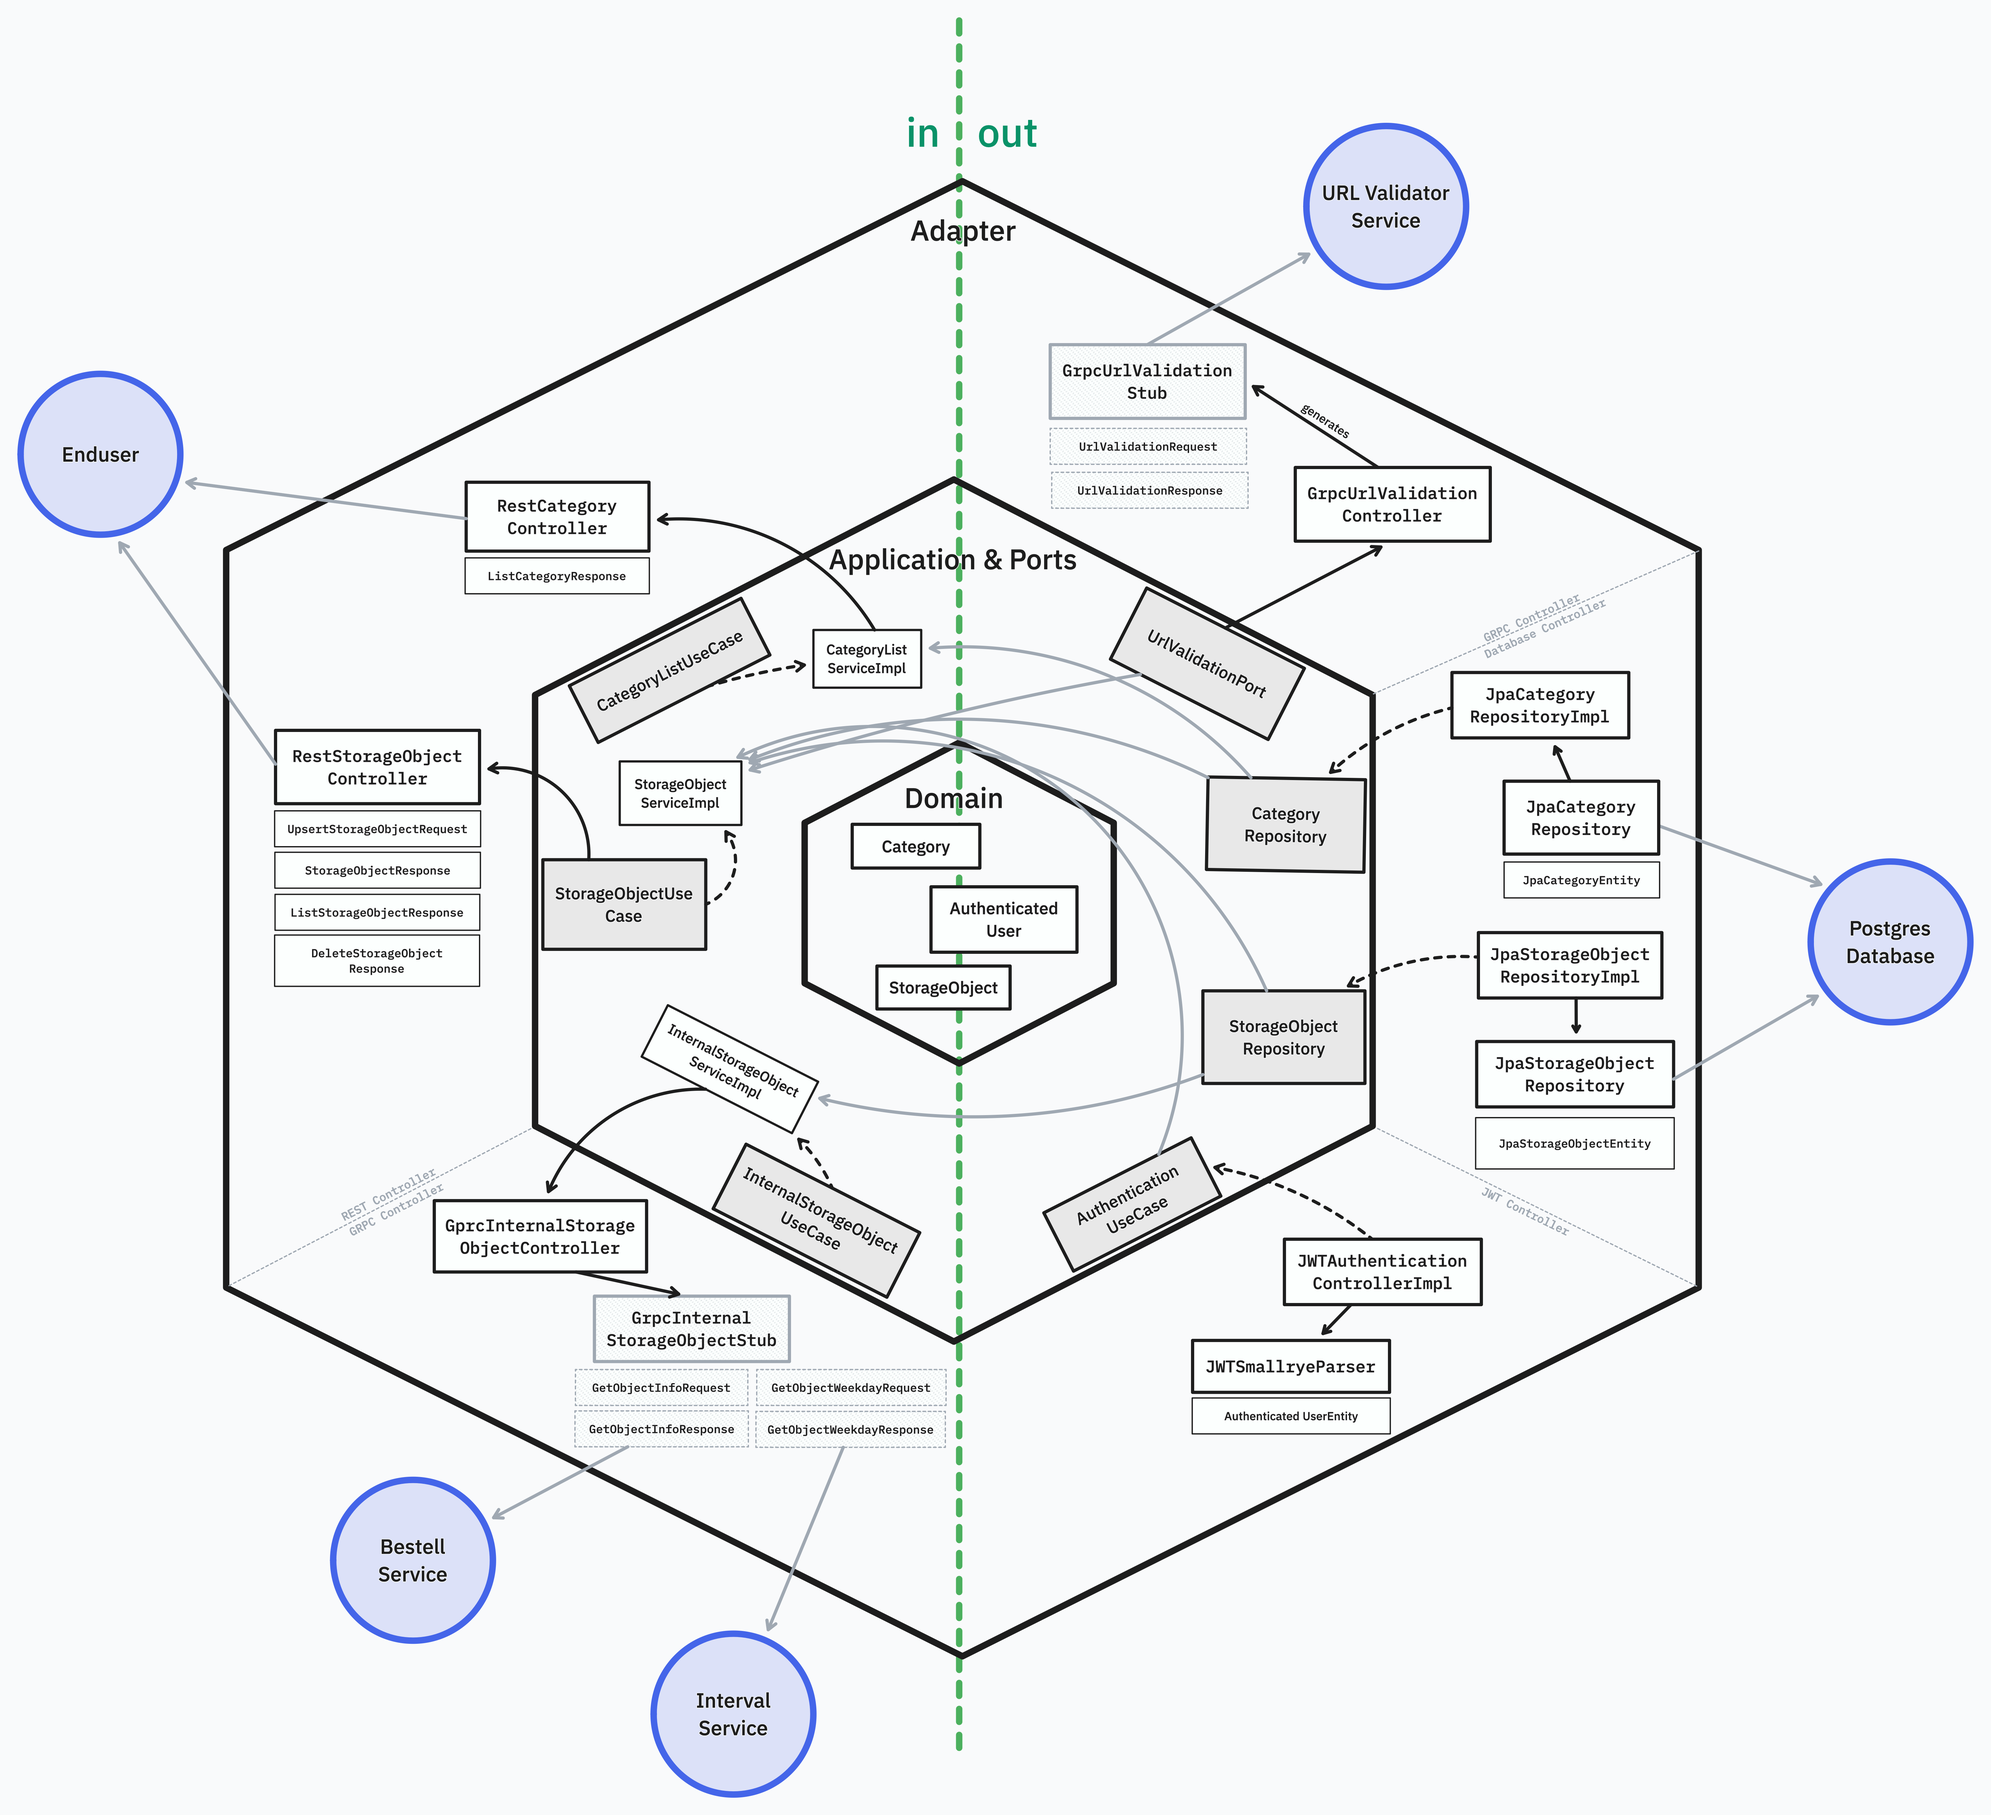
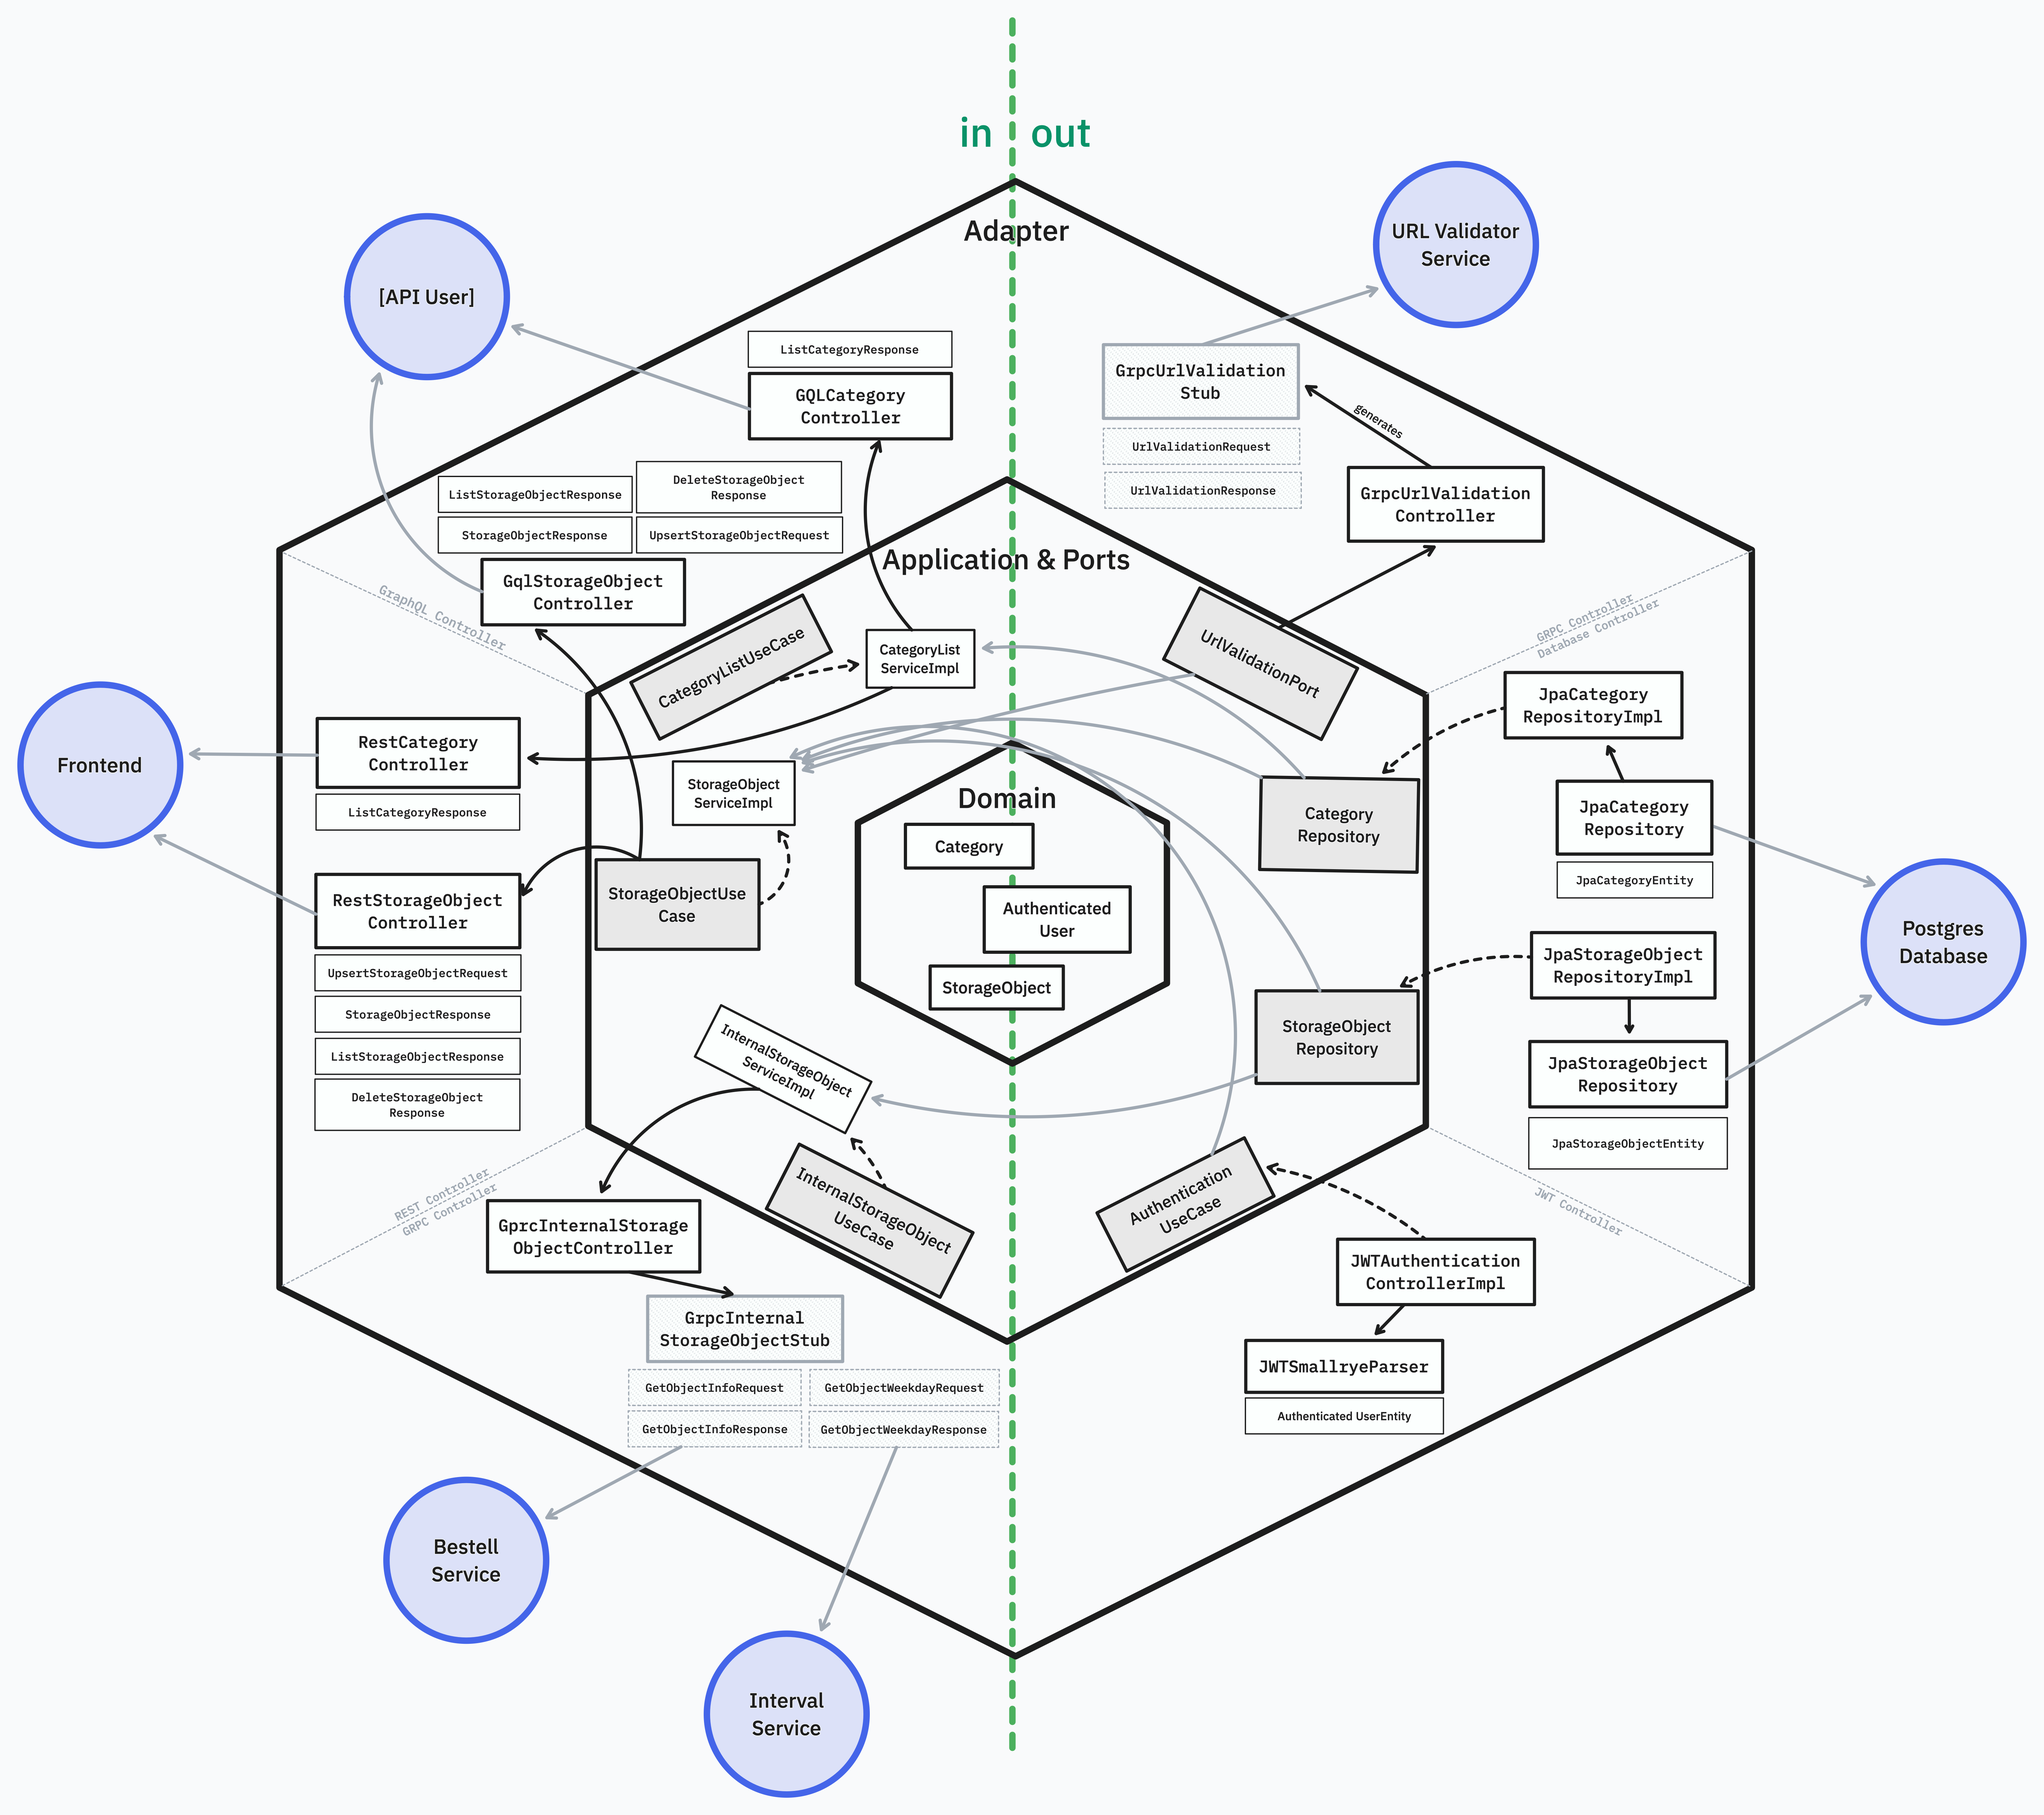
Refactor GraphQL controllers to return response DTOs for categories and storage objects

diff --git a/services/object-management/src/main/java/dev/eggl/adapter/in/user/graphql/GqlStorageObjectController.java b/services/object-management/src/main/java/dev/eggl/adapter/in/user/graphql/GqlStorageObjectController.java
@@ -1,6 +1,8 @@
 package dev.eggl.adapter.in.user.graphql;
 
 import dev.eggl.adapter.in.user.dto.storageObject.DeleteStorageObjectResponse;
+import dev.eggl.adapter.in.user.dto.storageObject.ListStorageObjectResponse;
+import dev.eggl.adapter.in.user.dto.storageObject.StorageObjectResponse;
 import dev.eggl.adapter.in.user.dto.storageObject.UpsertStorageObjectRequest;
 import dev.eggl.domain.model.StorageObject;
 import dev.eggl.port.in.StorageObjectUseCase;
@@ -21,7 +23,6 @@ public class GqlStorageObjectController {
     @Inject
     RoutingContext routingContext;
 
-
     public GqlStorageObjectController(StorageObjectUseCase storageObjectUseCase) {
         this.storageObjectUseCase = storageObjectUseCase;
     }
@@ -35,19 +36,18 @@ public class GqlStorageObjectController {
     }
 
     @Query("items")
-    public List<StorageObject> getAllStorageObjects() throws GraphQLException {
-
+    public ListStorageObjectResponse getAllStorageObjects() throws GraphQLException {
         String token = extractToken();
-
-        return storageObjectUseCase.findAll(token);
+        List<StorageObject> storageObjects = storageObjectUseCase.findAll(token);
+        return ListStorageObjectResponse.fromDomain(storageObjects);
     }
 
     @Mutation("createItem")
     @Transactional
-    public StorageObject createStorageObject(UpsertStorageObjectRequest input) throws GraphQLException {
+    public StorageObjectResponse createStorageObject(UpsertStorageObjectRequest input) throws GraphQLException {
         String token = extractToken();
         try {
-            return storageObjectUseCase.create(
+            StorageObject created = storageObjectUseCase.create(
                     input.name(),
                     input.description(),
                     input.categoryId(),
@@ -55,18 +55,18 @@ public class GqlStorageObjectController {
                     input.quantity(),
                     input.weekday(),
                     token);
+            return StorageObjectResponse.fromDomain(created);
         } catch (Exception e) {
             throw new GraphQLException(e.getMessage());
         }
-
     }
 
     @Mutation("updateItem")
     @Transactional
-    public StorageObject updateStorageObject(int id, UpsertStorageObjectRequest input) throws GraphQLException {
+    public StorageObjectResponse updateStorageObject(int id, UpsertStorageObjectRequest input) throws GraphQLException {
         String token = extractToken();
         try {
-            return storageObjectUseCase.update(
+            StorageObject updated = storageObjectUseCase.update(
                     id,
                     input.name(),
                     input.description(),
@@ -75,6 +75,7 @@ public class GqlStorageObjectController {
                     input.quantity(),
                     input.weekday(),
                     token);
+            return StorageObjectResponse.fromDomain(updated);
         } catch (Exception e) {
             throw new GraphQLException(e.getMessage());
         }
@@ -90,6 +91,5 @@ public class GqlStorageObjectController {
         } catch (Exception e) {
             throw new GraphQLException(e.getMessage());
         }
-
     }
 }

diff --git a/services/object-management/src/main/java/dev/eggl/adapter/in/user/graphql/GqlCategoryController.java b/services/object-management/src/main/java/dev/eggl/adapter/in/user/graphql/GqlCategoryController.java
@@ -1,5 +1,6 @@
 package dev.eggl.adapter.in.user.graphql;
 
+import dev.eggl.adapter.in.user.dto.category.ListCategoryResponse;
 import dev.eggl.domain.model.Category;
 import dev.eggl.port.in.CategoryListUseCase;
 import org.eclipse.microprofile.graphql.GraphQLApi;
@@ -11,13 +12,16 @@ import java.util.List;
 public class GqlCategoryController {
 
     private final CategoryListUseCase categoryListUseCase;
-    
+
     public GqlCategoryController(CategoryListUseCase categoryListUseCase) {
         this.categoryListUseCase = categoryListUseCase;
     }
 
     @Query("categories")
-    public List<Category> getAllCategories() {
-        return categoryListUseCase.findAll();
+    public List<ListCategoryResponse> getAllCategories() {
+        List<Category> categories = categoryListUseCase.findAll();
+        return categories.stream()
+                .map(ListCategoryResponse::fromDomainModel)
+                .toList();
     }
 }

diff --git a/docs/services/object-management.md b/docs/services/object-management.md
@@ -1,7 +1,6 @@
 # Objekt Management Service
 
 Der Objekt Management Service ist ein Service zur Verwaltung von Objekten.
-Er bietet die Möglichkeit je Nutzer Objekte zu erstellen, bearbeiten und löschen.
 
 - **Autor**: Robert Eggl
 - **Architektur**: Hexagonal
@@ -16,8 +15,6 @@ Dieser Service stellt einen integralen Bestandteil des Gesamtsystems dar. Er ist
 ---
 
 Es wird für demonstrierende Zwecke sowohl eine **REST API** als auch eine **GraphQL API angeboten**. Beide Adapter implementieren dabei die gleiche Logik und greifen auf die gleichen Services zu. Die GraphQL API ist dabei als Erweiterung der REST API zu sehen und wird nicht im Frontend verwendet.
-
----
 
 Über diese APIs können die Objekte erstellt, bearbeitet und gelöscht werden. Die API ist durch die JWT Authentifizierung im Message Header geschützt.
 Über einen weiteren Kategorie Endpunkt können alle verfügbaren Kategorien abgerufen werden. Aufgrund des Modularitätsprinzips ist diese Abfrage unabhänging und nicht in der Objektliste enthalten. Dies könnte in einer späteren Version implementiert werden.
